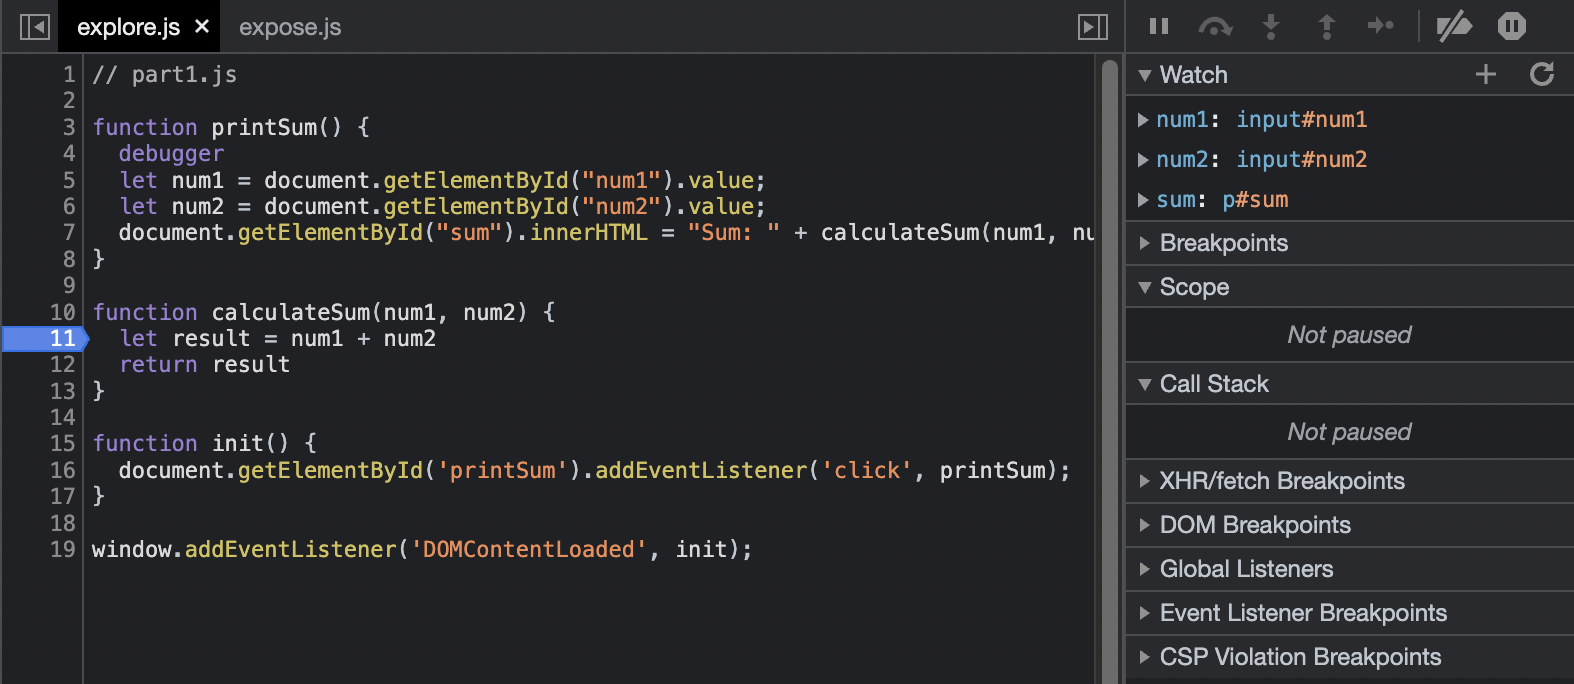
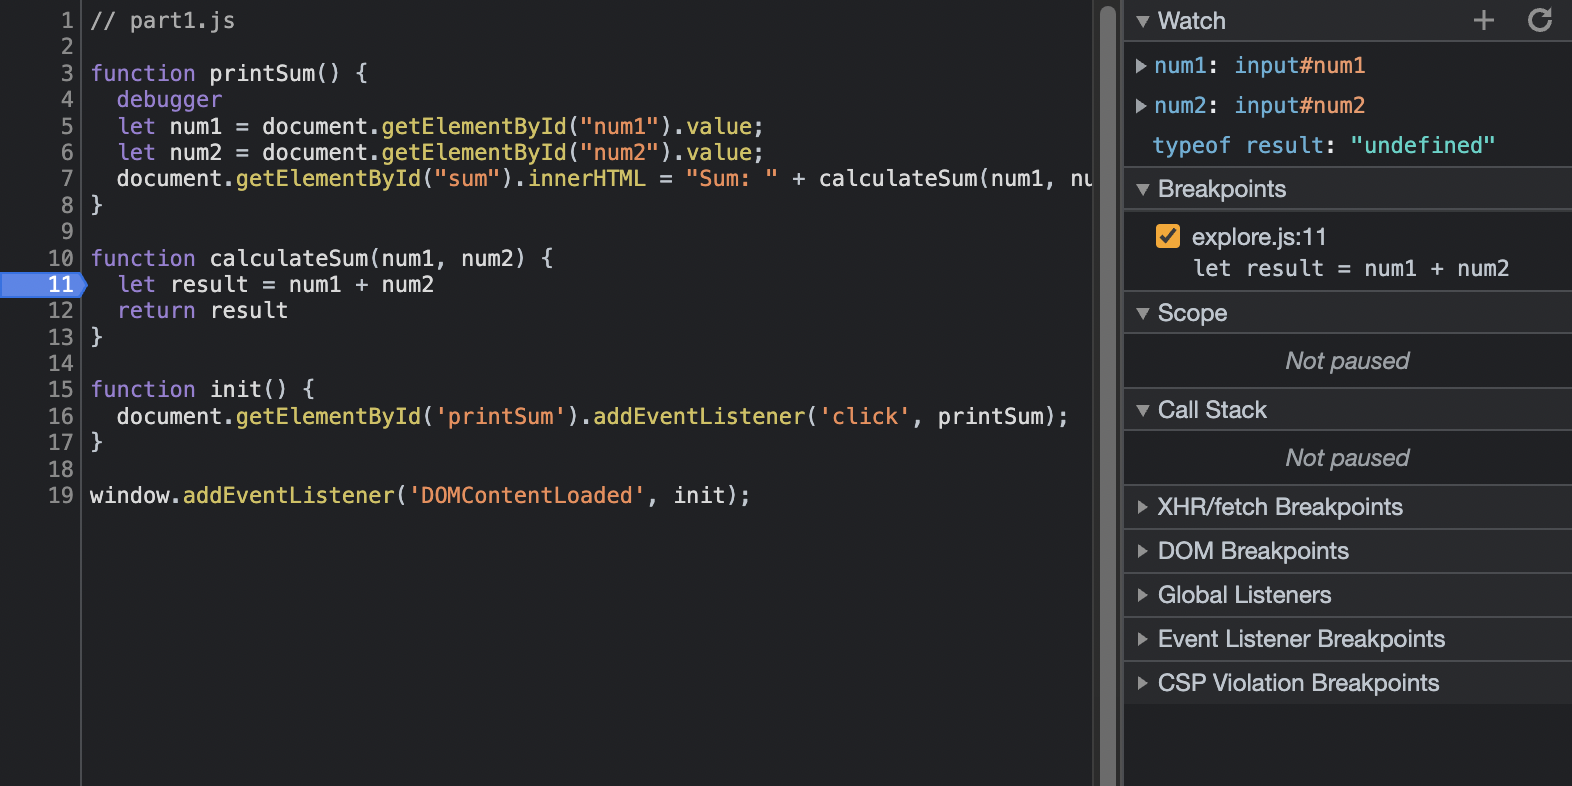
Explore content

Changed region(s): [[0.0, 0.0, 1.0, 0.8289], [0.7169, 0.4298, 1.0, 0.9825], [0.4364, 0.7982, 0.4676, 0.8289]]

diff --git a/explore/devtools/devtools-pt2.md b/explore/devtools/devtools-pt2.md
@@ -1,1 +1,2 @@
-1) Fix result-dataType.png
+1) The bug is that both of the inputed numbers are read as strings thus adding them is just concatenation.
+2) To fix it, I parse the values of num1 and num2 into numbers. Check fix.png
